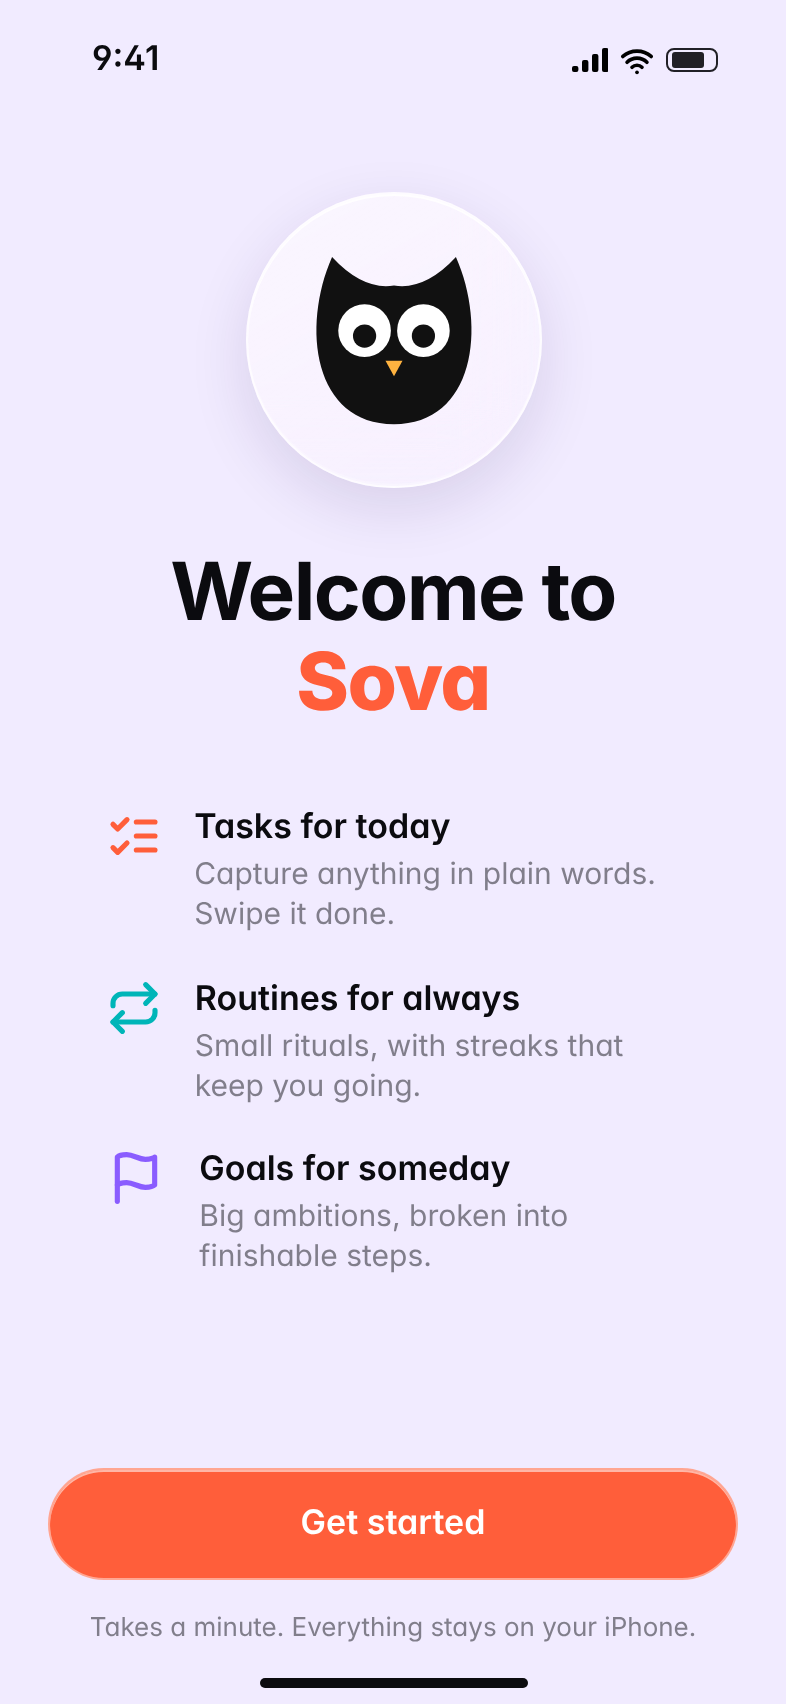
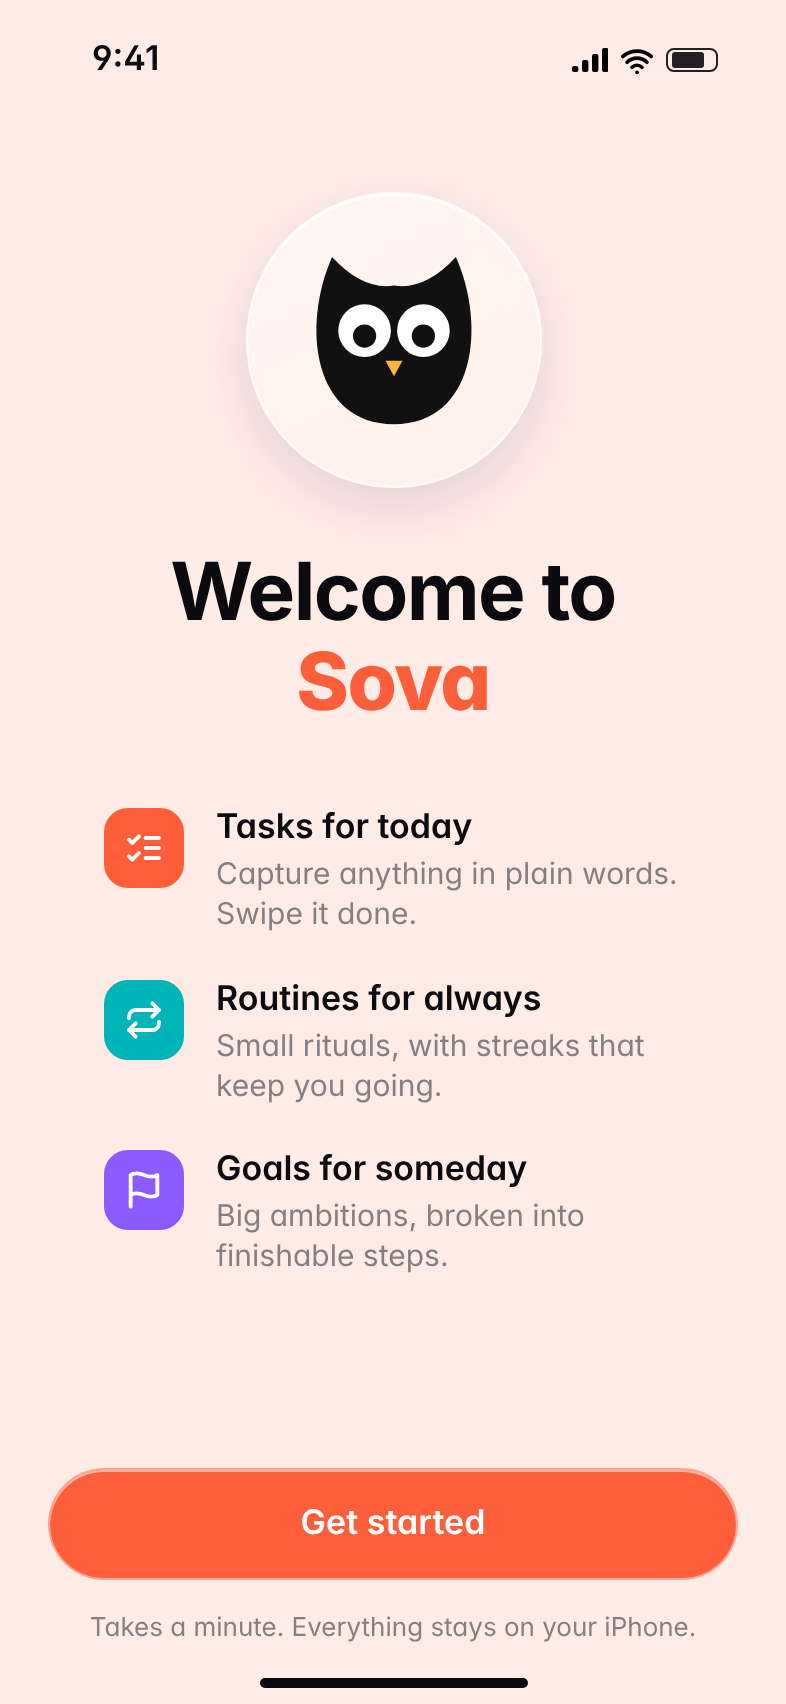
Unify color: one accent per screen, neutral content
Onboarding stays on the chosen theme's canvas instead of shifting hue
per step. Selections (rituals, goal suggestions) use the single theme
accent; ritual and feature icons become Settings-style solid squircles.
Task rows, goal cards and onboarding cards drop per-item tints so content
leads. Refresh design preview screenshots.

Changed region(s): [[0.1221, 0.4665, 0.855, 0.7465]]

diff --git a/Sova/Features/Onboarding/OnboardingSteps.swift b/Sova/Features/Onboarding/OnboardingSteps.swift
@@ -83,10 +83,7 @@ struct HelloStep: View {
 
     private func feature(_ symbol: String, _ accent: Accent, _ title: String, _ detail: String) -> some View {
         HStack(alignment: .top, spacing: 16) {
-            Image(systemName: symbol)
-                .font(.title2.weight(.semibold))
-                .foregroundStyle(accent.gradient)
-                .frame(width: 40)
+            IconTile(symbol: symbol, accent: accent, size: 40, filled: true)
             VStack(alignment: .leading, spacing: 3) {
                 Text(title).font(.headline).foregroundStyle(Color.ink)
                 Text(detail).font(.subheadline).foregroundStyle(Color.inkSecondary)
@@ -227,7 +224,7 @@ private struct PillarCard<Content: View>: View {
             }
             content
         }
-        .surface(cornerRadius: 24, padding: 18, tint: accent.color)
+        .surface(cornerRadius: 24, padding: 18)
         .rotationEffect(.degrees(settled ? rotation : 0))
         .offset(x: settled ? offsetX : 0)
     }
@@ -362,50 +359,51 @@ private struct RitualTile: View {
     let selected: Bool
     let action: () -> Void
 
+    private var accent: Color { SovaTheme.current.accent.color }
+
     var body: some View {
         Button(action: action) {
             VStack(alignment: .leading, spacing: 0) {
                 HStack(alignment: .top) {
-                    Image(systemName: ritual.symbol)
-                        .font(.title3.weight(.medium))
-                        .foregroundStyle(selected ? Color.white : ritual.accent.color)
+                    IconTile(symbol: ritual.symbol, accent: ritual.accent, size: 34, filled: true)
                     Spacer()
                     ZStack {
                         Circle()
                             .strokeBorder(Color.inkTertiary, lineWidth: 1.5)
                             .opacity(selected ? 0 : 1)
                         Circle()
-                            .fill(Color.white)
+                            .fill(accent)
                             .scaleEffect(selected ? 1 : 0.3)
                             .opacity(selected ? 1 : 0)
                         CheckmarkShape()
                             .trim(from: 0, to: selected ? 1 : 0)
-                            .stroke(ritual.accent.color, style: StrokeStyle(lineWidth: 2, lineCap: .round, lineJoin: .round))
-                            .padding(6)
+                            .stroke(Color.white, style: StrokeStyle(lineWidth: 2.2, lineCap: .round, lineJoin: .round))
+                            .padding(6.5)
                     }
-                    .frame(width: 22, height: 22)
+                    .frame(width: 24, height: 24)
                 }
-                Spacer(minLength: 20)
+                Spacer(minLength: 18)
                 Text(ritual.title)
                     .font(.subheadline.weight(.semibold))
-                    .foregroundStyle(selected ? Color.white : Color.ink)
+                    .foregroundStyle(Color.ink)
                     .multilineTextAlignment(.leading)
                 Text(ritual.period.name)
                     .font(.caption)
-                    .foregroundStyle(selected ? Color.white.opacity(0.75) : Color.inkSecondary)
+                    .foregroundStyle(Color.inkSecondary)
                     .padding(.top, 2)
             }
             .padding(14)
             .frame(maxWidth: .infinity, minHeight: 116, alignment: .topLeading)
-            .background {
+            .glassEffect(Glass.card(tint: selected ? accent : nil, interactive: true),
+                         in: .rect(cornerRadius: 22, style: .continuous))
+            .overlay {
                 RoundedRectangle(cornerRadius: 22, style: .continuous)
-                    .fill(ritual.accent.gradient)
+                    .strokeBorder(accent, lineWidth: 2)
                     .opacity(selected ? 1 : 0)
             }
-            .glassEffect(Glass.card(tint: selected ? ritual.accent.color : nil, interactive: true),
-                         in: .rect(cornerRadius: 22, style: .continuous))
         }
         .buttonStyle(.pressable)
+        .animation(.spring(response: 0.35, dampingFraction: 0.75), value: selected)
         .accessibilityLabel(ritual.title)
         .accessibilityValue(ritual.period.name)
         .accessibilityAddTraits(selected ? .isSelected : [])
@@ -442,16 +440,15 @@ struct GoalStep: View {
                             HStack(spacing: 7) {
                                 Image(systemName: suggestion.symbol)
                                     .font(.footnote.weight(.semibold))
-                                    .foregroundStyle(selected ? Color.white : suggestion.accent.color)
+                                    .foregroundStyle(selected ? Color.white : Color.inkSecondary)
                                 Text(suggestion.title)
                                     .font(.subheadline.weight(.medium))
                                     .foregroundStyle(selected ? Color.white : Color.ink)
                             }
                             .padding(.horizontal, 14)
                             .frame(height: 40)
-                            .background { Capsule().fill(suggestion.accent.gradient).opacity(selected ? 1 : 0) }
-                            .glassEffect(Glass.card(tint: selected ? suggestion.accent.color : nil, interactive: true),
-                                         in: .capsule)
+                            .background { Capsule().fill(SovaTheme.current.accent.color).opacity(selected ? 1 : 0) }
+                            .glassEffect(Glass.card(interactive: true), in: .capsule)
                         }
                         .buttonStyle(.pressable)
                         .accessibilityAddTraits(selected ? .isSelected : [])

diff --git a/Sova/Features/Today/TodayView.swift b/Sova/Features/Today/TodayView.swift
@@ -93,7 +93,7 @@ struct TodayView: View {
                 } else {
                     ForEach(dueTasks) { task in
                         TaskRow(task: task) { router.sheet = .task(task) }
-                            .glassListRow(tint: task.accent.color)
+                            .glassListRow()
                             .taskSwipeActions(task)
                     }
                 }
@@ -111,7 +111,7 @@ struct TodayView: View {
                         .bareListRow(top: 18, bottom: 6)
                     ForEach(upcomingTasks.prefix(8)) { task in
                         TaskRow(task: task) { router.sheet = .task(task) }
-                            .glassListRow(tint: task.accent.color)
+                            .glassListRow()
                             .taskSwipeActions(task)
                     }
                 }

diff --git a/Sova/Features/Onboarding/OnboardingView.swift b/Sova/Features/Onboarding/OnboardingView.swift
@@ -246,22 +246,14 @@ struct StepIndicator: View {
     }
 }
 
-/// A vivid color blend that shifts mood with each step.
+/// The onboarding canvas: the brand color, flat.
 struct OnboardingBackdrop: View {
     var step: OnboardingStep
     var theme: SovaTheme
 
-    private var mood: SovaTheme {
-        switch step {
-        case .hello: .plum
-        case .pillars: .tide
-        case .name: .ember
-        case .rituals: .moss
-        case .goal: .plum
-        case .rhythm: .ember
-        case .theme, .finish: theme
-        }
-    }
+    /// One canvas for the whole flow, so it reads as a single place.
+    /// It only changes when the user picks a theme.
+    private var mood: SovaTheme { theme }
 
     var body: some View {
         MeshBackdrop(colors: mood)

diff --git a/Sova/Features/Goals/GoalCard.swift b/Sova/Features/Goals/GoalCard.swift
@@ -27,7 +27,7 @@ struct GoalCard: View {
                     .frame(minWidth: 36, alignment: .trailing)
             }
         }
-        .surface(cornerRadius: 26, padding: 18, tint: goal.accent.color, interactive: true)
+        .surface(cornerRadius: 26, padding: 18, interactive: true)
         .accessibilityElement(children: .combine)
     }
 
